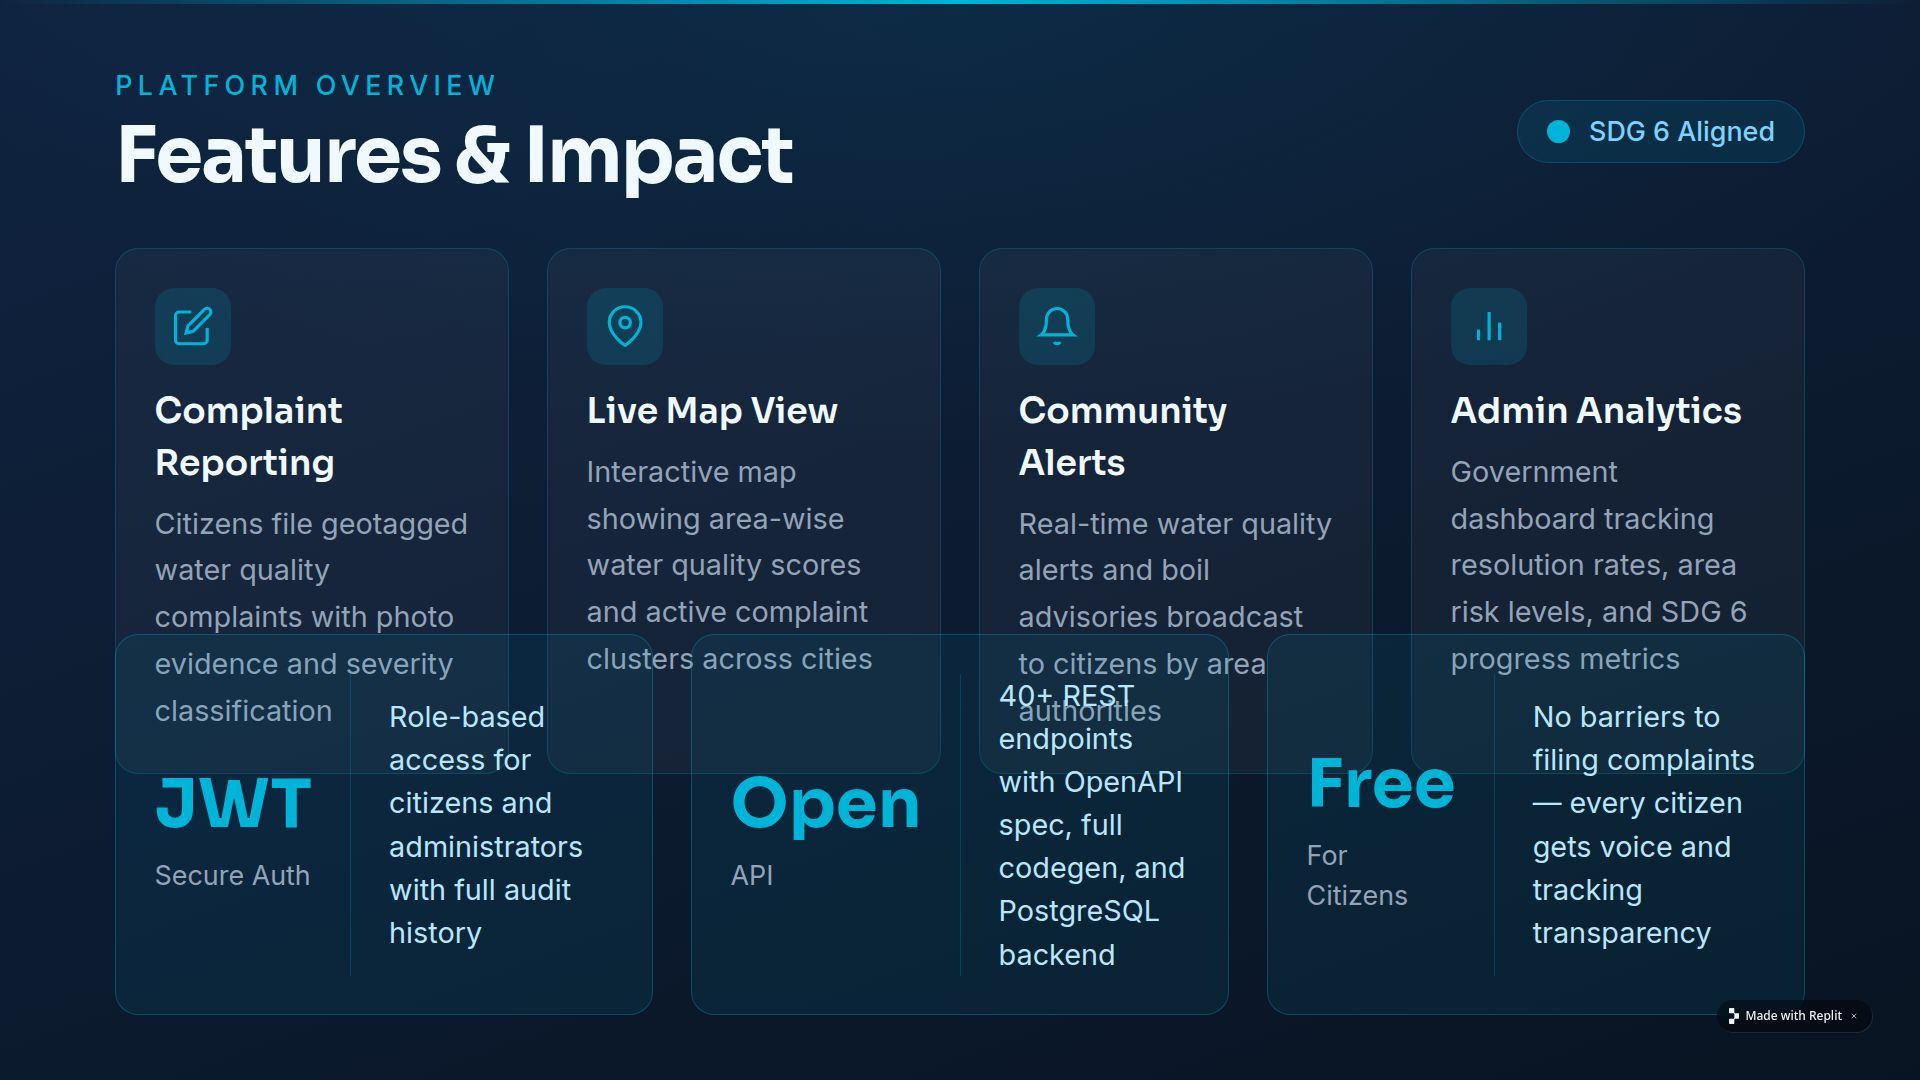
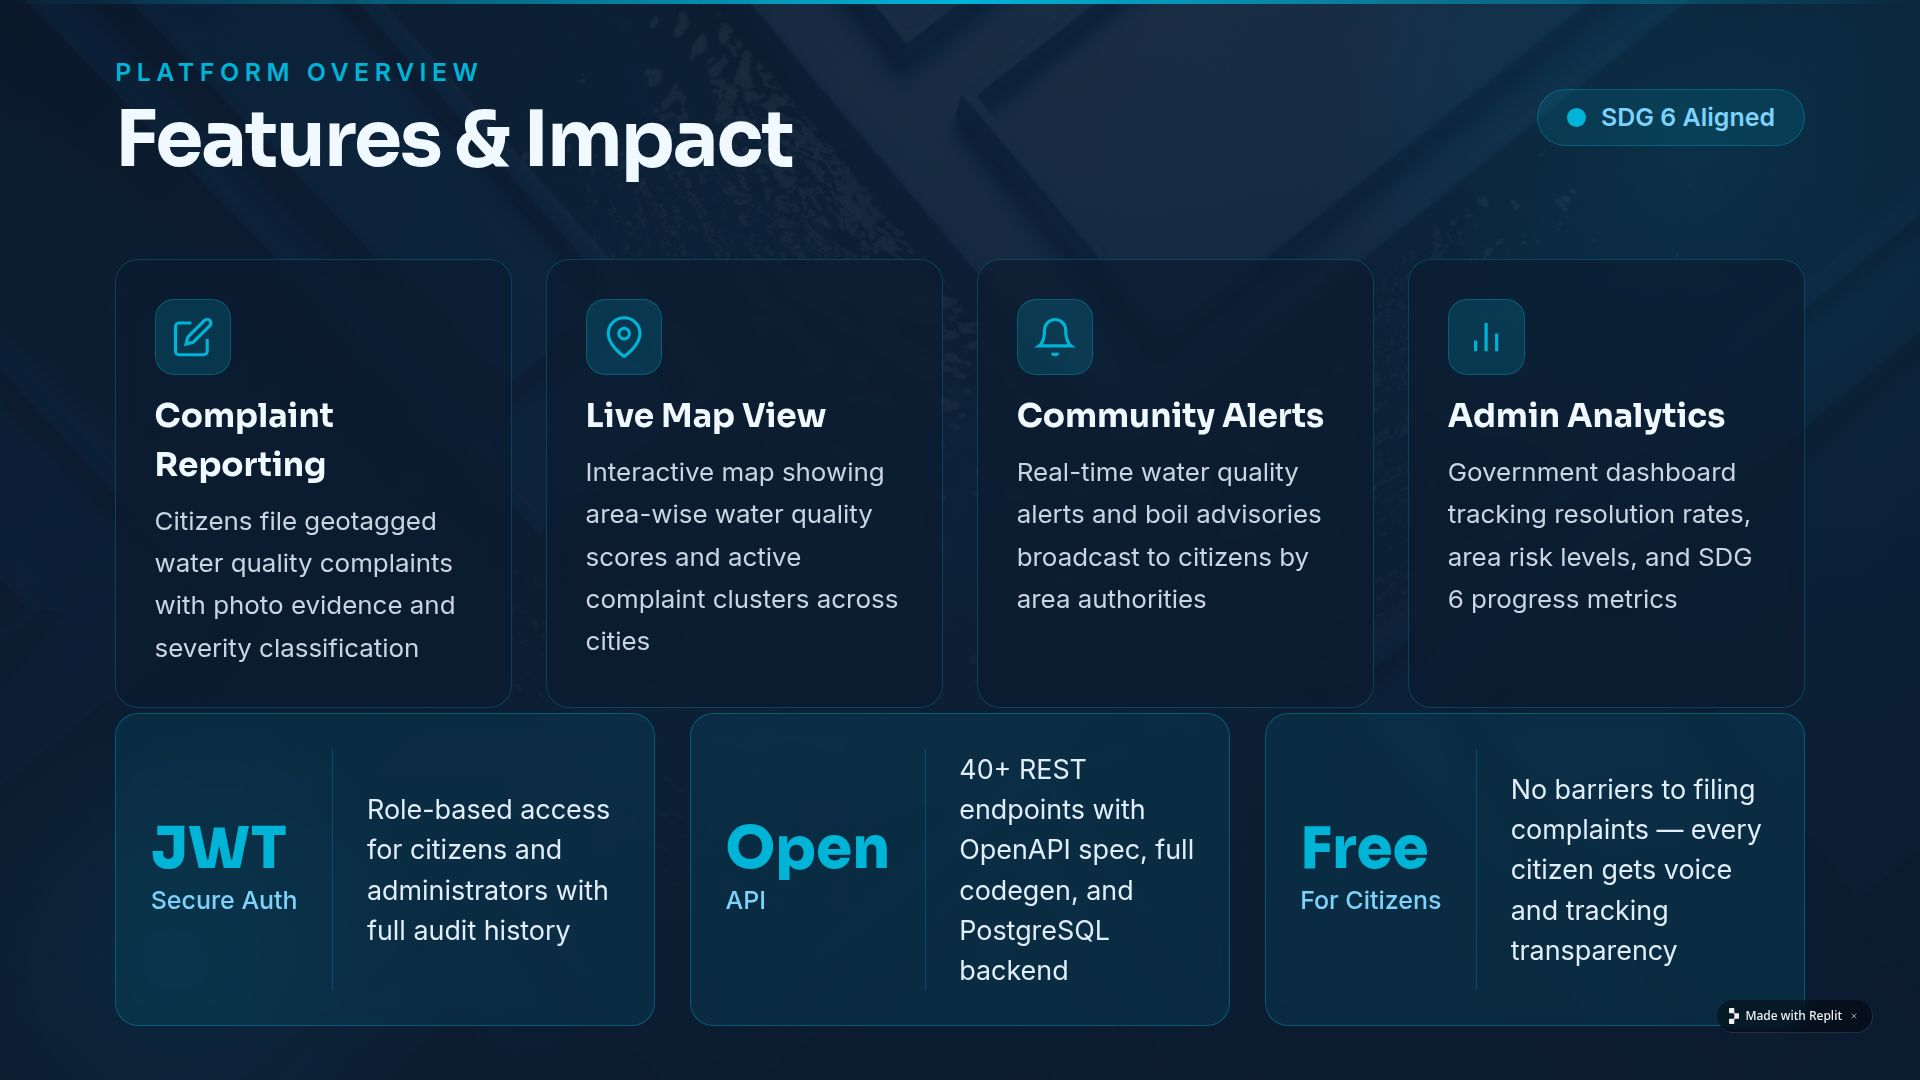
Improve slide deck appearance with consistent backgrounds and better text visibility
Update slide backgrounds to match the hero image and gradient from Slide 1, and enhance text contrast for improved readability across the presentation.

Replit-Commit-Author: Agent
Replit-Commit-Session-Id: 6765d60d-c30c-4239-84a1-988d6bb21293
Replit-Commit-Checkpoint-Type: full_checkpoint
Replit-Commit-Event-Id: fd59a762-89a9-4640-9c5e-f98a7c8118c3
Replit-Commit-Screenshot-Url: https://storage.googleapis.com/screenshot-production-us-central1/436e969e-9e8a-46f5-8804-5ebe1c19a8f6/6765d60d-c30c-4239-84a1-988d6bb21293/KgrCIT0
Replit-Helium-Checkpoint-Created: true

diff --git a/artifacts/jalrakshak-doc/src/pages/slides/Slide2.tsx b/artifacts/jalrakshak-doc/src/pages/slides/Slide2.tsx
@@ -1,109 +1,131 @@
+const base = import.meta.env.BASE_URL;
+
 export default function Slide2() {
   return (
-    <div className="relative w-screen h-screen overflow-hidden" style={{ background: "linear-gradient(160deg, #0F2340 0%, #0C1A2E 60%, #091422 100%)" }}>
+    <div className="relative w-screen h-screen overflow-hidden" style={{ background: "linear-gradient(135deg, #0C1A2E 0%, #0F2B45 50%, #0A2233 100%)" }}>
 
-      <div className="absolute inset-0" style={{ background: "radial-gradient(ellipse 80% 60% at 50% 0%, rgba(0,180,216,0.07) 0%, transparent 70%)" }} />
+      {/* Same hero image as slide 1 */}
+      <img
+        src={`${base}hero.png`}
+        crossOrigin="anonymous"
+        alt="Water quality infrastructure"
+        className="absolute inset-0 w-full h-full object-cover"
+        style={{ opacity: 0.13 }}
+      />
 
+      {/* Readability overlay */}
+      <div className="absolute inset-0" style={{ background: "linear-gradient(180deg, rgba(12,26,46,0.45) 0%, rgba(12,26,46,0.65) 50%, rgba(12,26,46,0.88) 100%)" }} />
+
+      {/* Same radial glow accents as slide 1 */}
+      <div className="absolute top-0 right-0 w-[40vw] h-[40vw] rounded-full pointer-events-none" style={{ background: "radial-gradient(circle, rgba(0,180,216,0.10) 0%, transparent 70%)", transform: "translate(20%, -30%)" }} />
+      <div className="absolute bottom-0 left-0 w-[30vw] h-[30vw] rounded-full pointer-events-none" style={{ background: "radial-gradient(circle, rgba(0,180,216,0.07) 0%, transparent 70%)", transform: "translate(-20%, 30%)" }} />
+
+      {/* Top accent rule */}
       <div className="absolute top-0 left-0 w-full h-[0.4vh]" style={{ background: "linear-gradient(90deg, transparent, #00B4D8, transparent)" }} />
 
-      <div className="absolute top-[6vh] left-[6vw] right-[6vw] flex items-center justify-between">
+      {/* Header */}
+      <div className="absolute top-[5vh] left-[6vw] right-[6vw] flex items-center justify-between">
         <div>
-          <div className="font-body text-[1.4vw] font-medium tracking-[0.2em] uppercase mb-[0.8vh]" style={{ color: "#00B4D8" }}>Platform Overview</div>
-          <h2 className="font-display font-bold tracking-tight" style={{ fontSize: "4vw", color: "#F0F9FF", lineHeight: "1.1" }}>
+          <div className="font-body font-semibold tracking-[0.22em] uppercase mb-[0.8vh]" style={{ fontSize: "1.3vw", color: "#00B4D8" }}>Platform Overview</div>
+          <h2 className="font-display font-bold tracking-tight" style={{ fontSize: "4vw", color: "#F0F9FF", lineHeight: "1.05" }}>
             Features &amp; Impact
           </h2>
         </div>
-        <div className="flex items-center gap-[1vw] px-[1.5vw] py-[1vh] rounded-full" style={{ background: "rgba(0,180,216,0.1)", border: "1px solid rgba(0,180,216,0.25)" }}>
-          <div className="w-[1.2vw] h-[1.2vw] rounded-full" style={{ background: "#00B4D8" }} />
-          <span className="font-body text-[1.4vw] font-medium" style={{ color: "#7DD3FC" }}>SDG 6 Aligned</span>
+        <div className="flex items-center gap-[0.8vw] px-[1.5vw] py-[0.8vh] rounded-full" style={{ background: "rgba(0,180,216,0.12)", border: "1px solid rgba(0,180,216,0.3)" }}>
+          <div className="w-[1vw] h-[1vw] rounded-full" style={{ background: "#00B4D8" }} />
+          <span className="font-body font-semibold" style={{ fontSize: "1.3vw", color: "#7DD3FC" }}>SDG 6 Aligned</span>
         </div>
       </div>
 
-      <div className="absolute left-[6vw] right-[6vw]" style={{ top: "23vh" }}>
-        <div className="grid grid-cols-4 gap-[2vw]">
+      {/* Feature cards grid */}
+      <div className="absolute left-[6vw] right-[6vw]" style={{ top: "24vh" }}>
+        <div className="grid grid-cols-4 gap-[1.8vw]">
 
-          <div className="rounded-[1.2vw] p-[2vw]" style={{ background: "rgba(255,255,255,0.04)", border: "1px solid rgba(0,180,216,0.2)" }}>
-            <div className="w-[4vw] h-[4vw] rounded-[1vw] flex items-center justify-center mb-[2vh]" style={{ background: "rgba(0,180,216,0.15)" }}>
+          <div className="rounded-[1.2vw] p-[2vw]" style={{ background: "rgba(12,26,46,0.6)", border: "1px solid rgba(0,180,216,0.25)", backdropFilter: "blur(8px)" }}>
+            <div className="w-[4vw] h-[4vw] rounded-[1vw] flex items-center justify-center mb-[1.5vh]" style={{ background: "rgba(0,180,216,0.18)", border: "1px solid rgba(0,180,216,0.3)" }}>
               <svg viewBox="0 0 24 24" fill="none" className="w-[2.2vw] h-[2.2vw]" stroke="#00B4D8" strokeWidth="1.8">
                 <path d="M11 4H4a2 2 0 00-2 2v14a2 2 0 002 2h14a2 2 0 002-2v-7"/>
                 <path d="M18.5 2.5a2.121 2.121 0 013 3L12 15l-4 1 1-4 9.5-9.5z"/>
               </svg>
             </div>
-            <div className="font-display font-semibold text-[1.8vw] mb-[1vh]" style={{ color: "#F0F9FF" }}>Complaint Reporting</div>
-            <div className="font-body text-[1.5vw] leading-relaxed" style={{ color: "#94A3B8" }}>Citizens file geotagged water quality complaints with photo evidence and severity classification</div>
+            <div className="font-display font-bold mb-[1vh]" style={{ fontSize: "1.7vw", color: "#F0F9FF" }}>Complaint Reporting</div>
+            <div className="font-body leading-relaxed" style={{ fontSize: "1.35vw", color: "#CBD5E1" }}>Citizens file geotagged water quality complaints with photo evidence and severity classification</div>
           </div>
 
-          <div className="rounded-[1.2vw] p-[2vw]" style={{ background: "rgba(255,255,255,0.04)", border: "1px solid rgba(0,180,216,0.2)" }}>
-            <div className="w-[4vw] h-[4vw] rounded-[1vw] flex items-center justify-center mb-[2vh]" style={{ background: "rgba(0,180,216,0.15)" }}>
+          <div className="rounded-[1.2vw] p-[2vw]" style={{ background: "rgba(12,26,46,0.6)", border: "1px solid rgba(0,180,216,0.25)", backdropFilter: "blur(8px)" }}>
+            <div className="w-[4vw] h-[4vw] rounded-[1vw] flex items-center justify-center mb-[1.5vh]" style={{ background: "rgba(0,180,216,0.18)", border: "1px solid rgba(0,180,216,0.3)" }}>
               <svg viewBox="0 0 24 24" fill="none" className="w-[2.2vw] h-[2.2vw]" stroke="#00B4D8" strokeWidth="1.8">
                 <path d="M21 10c0 7-9 13-9 13s-9-6-9-13a9 9 0 0118 0z"/>
                 <circle cx="12" cy="10" r="3"/>
               </svg>
             </div>
-            <div className="font-display font-semibold text-[1.8vw] mb-[1vh]" style={{ color: "#F0F9FF" }}>Live Map View</div>
-            <div className="font-body text-[1.5vw] leading-relaxed" style={{ color: "#94A3B8" }}>Interactive map showing area-wise water quality scores and active complaint clusters across cities</div>
+            <div className="font-display font-bold mb-[1vh]" style={{ fontSize: "1.7vw", color: "#F0F9FF" }}>Live Map View</div>
+            <div className="font-body leading-relaxed" style={{ fontSize: "1.35vw", color: "#CBD5E1" }}>Interactive map showing area-wise water quality scores and active complaint clusters across cities</div>
           </div>
 
-          <div className="rounded-[1.2vw] p-[2vw]" style={{ background: "rgba(255,255,255,0.04)", border: "1px solid rgba(0,180,216,0.2)" }}>
-            <div className="w-[4vw] h-[4vw] rounded-[1vw] flex items-center justify-center mb-[2vh]" style={{ background: "rgba(0,180,216,0.15)" }}>
+          <div className="rounded-[1.2vw] p-[2vw]" style={{ background: "rgba(12,26,46,0.6)", border: "1px solid rgba(0,180,216,0.25)", backdropFilter: "blur(8px)" }}>
+            <div className="w-[4vw] h-[4vw] rounded-[1vw] flex items-center justify-center mb-[1.5vh]" style={{ background: "rgba(0,180,216,0.18)", border: "1px solid rgba(0,180,216,0.3)" }}>
               <svg viewBox="0 0 24 24" fill="none" className="w-[2.2vw] h-[2.2vw]" stroke="#00B4D8" strokeWidth="1.8">
                 <path d="M18 8A6 6 0 006 8c0 7-3 9-3 9h18s-3-2-3-9"/>
                 <path d="M13.73 21a2 2 0 01-3.46 0"/>
               </svg>
             </div>
-            <div className="font-display font-semibold text-[1.8vw] mb-[1vh]" style={{ color: "#F0F9FF" }}>Community Alerts</div>
-            <div className="font-body text-[1.5vw] leading-relaxed" style={{ color: "#94A3B8" }}>Real-time water quality alerts and boil advisories broadcast to citizens by area authorities</div>
+            <div className="font-display font-bold mb-[1vh]" style={{ fontSize: "1.7vw", color: "#F0F9FF" }}>Community Alerts</div>
+            <div className="font-body leading-relaxed" style={{ fontSize: "1.35vw", color: "#CBD5E1" }}>Real-time water quality alerts and boil advisories broadcast to citizens by area authorities</div>
           </div>
 
-          <div className="rounded-[1.2vw] p-[2vw]" style={{ background: "rgba(255,255,255,0.04)", border: "1px solid rgba(0,180,216,0.2)" }}>
-            <div className="w-[4vw] h-[4vw] rounded-[1vw] flex items-center justify-center mb-[2vh]" style={{ background: "rgba(0,180,216,0.15)" }}>
+          <div className="rounded-[1.2vw] p-[2vw]" style={{ background: "rgba(12,26,46,0.6)", border: "1px solid rgba(0,180,216,0.25)", backdropFilter: "blur(8px)" }}>
+            <div className="w-[4vw] h-[4vw] rounded-[1vw] flex items-center justify-center mb-[1.5vh]" style={{ background: "rgba(0,180,216,0.18)", border: "1px solid rgba(0,180,216,0.3)" }}>
               <svg viewBox="0 0 24 24" fill="none" className="w-[2.2vw] h-[2.2vw]" stroke="#00B4D8" strokeWidth="1.8">
                 <line x1="18" y1="20" x2="18" y2="10"/>
                 <line x1="12" y1="20" x2="12" y2="4"/>
                 <line x1="6" y1="20" x2="6" y2="14"/>
               </svg>
             </div>
-            <div className="font-display font-semibold text-[1.8vw] mb-[1vh]" style={{ color: "#F0F9FF" }}>Admin Analytics</div>
-            <div className="font-body text-[1.5vw] leading-relaxed" style={{ color: "#94A3B8" }}>Government dashboard tracking resolution rates, area risk levels, and SDG 6 progress metrics</div>
+            <div className="font-display font-bold mb-[1vh]" style={{ fontSize: "1.7vw", color: "#F0F9FF" }}>Admin Analytics</div>
+            <div className="font-body leading-relaxed" style={{ fontSize: "1.35vw", color: "#CBD5E1" }}>Government dashboard tracking resolution rates, area risk levels, and SDG 6 progress metrics</div>
           </div>
+
         </div>
       </div>
 
-      <div className="absolute left-[6vw] right-[6vw]" style={{ bottom: "6vh" }}>
-        <div className="flex gap-[2vw]">
+      {/* Bottom technical highlights */}
+      <div className="absolute left-[6vw] right-[6vw]" style={{ bottom: "5vh" }}>
+        <div className="flex gap-[1.8vw]">
 
-          <div className="flex-1 rounded-[1.2vw] p-[2vw] flex items-center gap-[2vw]" style={{ background: "rgba(0,180,216,0.08)", border: "1px solid rgba(0,180,216,0.3)" }}>
-            <div>
-              <div className="font-display font-bold text-[3.5vw]" style={{ color: "#00B4D8" }}>JWT</div>
-              <div className="font-body text-[1.4vw]" style={{ color: "#94A3B8" }}>Secure Auth</div>
+          <div className="flex-1 rounded-[1.2vw] p-[1.8vw] flex items-center gap-[1.8vw]" style={{ background: "rgba(0,180,216,0.10)", border: "1px solid rgba(0,180,216,0.35)", backdropFilter: "blur(8px)" }}>
+            <div className="flex-shrink-0">
+              <div className="font-display font-extrabold" style={{ fontSize: "3vw", color: "#00B4D8", lineHeight: 1 }}>JWT</div>
+              <div className="font-body font-medium mt-[0.4vh]" style={{ fontSize: "1.3vw", color: "#7DD3FC" }}>Secure Auth</div>
             </div>
-            <div className="w-[1px] self-stretch" style={{ background: "rgba(0,180,216,0.2)" }} />
-            <div className="font-body text-[1.5vw]" style={{ color: "#BAE6FD" }}>
+            <div className="w-[1px] self-stretch" style={{ background: "rgba(0,180,216,0.25)" }} />
+            <div className="font-body" style={{ fontSize: "1.4vw", color: "#E2EEF9", lineHeight: 1.5 }}>
               Role-based access for citizens and administrators with full audit history
             </div>
           </div>
 
-          <div className="flex-1 rounded-[1.2vw] p-[2vw] flex items-center gap-[2vw]" style={{ background: "rgba(0,180,216,0.08)", border: "1px solid rgba(0,180,216,0.3)" }}>
-            <div>
-              <div className="font-display font-bold text-[3.5vw]" style={{ color: "#00B4D8" }}>Open</div>
-              <div className="font-body text-[1.4vw]" style={{ color: "#94A3B8" }}>API</div>
+          <div className="flex-1 rounded-[1.2vw] p-[1.8vw] flex items-center gap-[1.8vw]" style={{ background: "rgba(0,180,216,0.10)", border: "1px solid rgba(0,180,216,0.35)", backdropFilter: "blur(8px)" }}>
+            <div className="flex-shrink-0">
+              <div className="font-display font-extrabold" style={{ fontSize: "3vw", color: "#00B4D8", lineHeight: 1 }}>Open</div>
+              <div className="font-body font-medium mt-[0.4vh]" style={{ fontSize: "1.3vw", color: "#7DD3FC" }}>API</div>
             </div>
-            <div className="w-[1px] self-stretch" style={{ background: "rgba(0,180,216,0.2)" }} />
-            <div className="font-body text-[1.5vw]" style={{ color: "#BAE6FD" }}>
+            <div className="w-[1px] self-stretch" style={{ background: "rgba(0,180,216,0.25)" }} />
+            <div className="font-body" style={{ fontSize: "1.4vw", color: "#E2EEF9", lineHeight: 1.5 }}>
               40+ REST endpoints with OpenAPI spec, full codegen, and PostgreSQL backend
             </div>
           </div>
 
-          <div className="flex-1 rounded-[1.2vw] p-[2vw] flex items-center gap-[2vw]" style={{ background: "rgba(0,180,216,0.08)", border: "1px solid rgba(0,180,216,0.3)" }}>
-            <div>
-              <div className="font-display font-bold text-[3.5vw]" style={{ color: "#00B4D8" }}>Free</div>
-              <div className="font-body text-[1.4vw]" style={{ color: "#94A3B8" }}>For Citizens</div>
+          <div className="flex-1 rounded-[1.2vw] p-[1.8vw] flex items-center gap-[1.8vw]" style={{ background: "rgba(0,180,216,0.10)", border: "1px solid rgba(0,180,216,0.35)", backdropFilter: "blur(8px)" }}>
+            <div className="flex-shrink-0">
+              <div className="font-display font-extrabold" style={{ fontSize: "3vw", color: "#00B4D8", lineHeight: 1 }}>Free</div>
+              <div className="font-body font-medium mt-[0.4vh]" style={{ fontSize: "1.3vw", color: "#7DD3FC" }}>For Citizens</div>
             </div>
-            <div className="w-[1px] self-stretch" style={{ background: "rgba(0,180,216,0.2)" }} />
-            <div className="font-body text-[1.5vw]" style={{ color: "#BAE6FD" }}>
+            <div className="w-[1px] self-stretch" style={{ background: "rgba(0,180,216,0.25)" }} />
+            <div className="font-body" style={{ fontSize: "1.4vw", color: "#E2EEF9", lineHeight: 1.5 }}>
               No barriers to filing complaints — every citizen gets voice and tracking transparency
             </div>
           </div>
+
         </div>
       </div>
     </div>

diff --git a/artifacts/jalrakshak-doc/src/pages/slides/Slide1.tsx b/artifacts/jalrakshak-doc/src/pages/slides/Slide1.tsx
@@ -84,7 +84,7 @@ export default function Slide1() {
             </svg>
           </div>
           <div className="font-display font-semibold text-[1.8vw] mb-[1vh] text-center" style={{ color: "#F0F9FF" }}>Clean Water for All</div>
-          <div className="font-body text-[1.4vw] text-center px-[2vw]" style={{ color: "#94A3B8", lineHeight: "1.5" }}>Transparent civic reporting for every Indian citizen</div>
+          <div className="font-body text-[1.4vw] text-center px-[2vw]" style={{ color: "#CBD5E1", lineHeight: "1.5" }}>Transparent civic reporting for every Indian citizen</div>
         </div>
       </div>
     </div>
